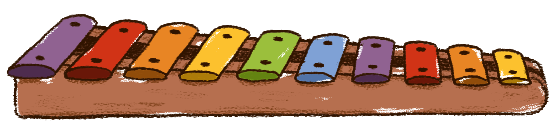
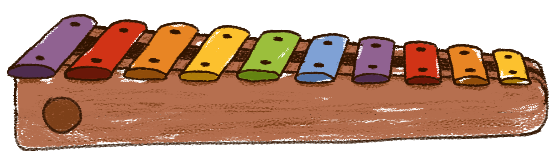
finalizing design

diff --git a/source/js/screens/screens.js b/source/js/screens/screens.js
@@ -205,13 +205,11 @@ function screen01() {
     world,
     {
       x: 410,
-      y: 560,
+      y: 525,
       w: 685,
       h: 511,
       fromFile: "assets/images/bed.svg",
-      scale: 0.95,
       color: sensorColor,
-      image: imgBed,
     },
     { isStatic: true, angle: 0, label: "bed" }
   );
@@ -234,10 +232,10 @@ function screen01() {
   xylophone = new Block(
     world,
     {
-      x: 1055,
-      y: 660,
-      w: 520,
-      h: 80,
+      x: 1090,
+      y: 650,
+      w: 530,
+      h: 100,
       color: sensorColor,
     },
     { isStatic: true, angle: 0.07, label: "xylophone" }
@@ -249,8 +247,8 @@ function screen01() {
       new BlockCore(
         world,
         {
-          x: 850 + i * 48,
-          y: 580 + i * 4,
+          x: 885 + i * 48,
+          y: 550 + i * 4,
           w: 15,
           h: 40,
           color: sensorColor,

diff --git a/source/js/utilities/functions.js b/source/js/utilities/functions.js
@@ -133,6 +133,8 @@ function drawLevel() {
   }
   image(imgTowerBg, 1950, 285, 289, 428);
   image(imgBallPitBg, 7893, 575, 415, 127);
+  image(imgBed, -25, 220, 747, 474);
+
   blocks.forEach((block) => block.draw());
 
   if (rocketflying) {
@@ -149,10 +151,10 @@ function drawLevel() {
 
   image(imgWall, -1180, 0, 1165, 720);
 
-  image(gifElGato, -55, 45, 470, 264);
+  image(gifElGato, -55, 30, 470, 264);
   push();
   rotate(0.01);
-  image(imgXylophone, 785, 560, 540, 120);
+  image(imgXylophone, 810, 540, 550, 151);
   pop();
 
   rotateCannon();
